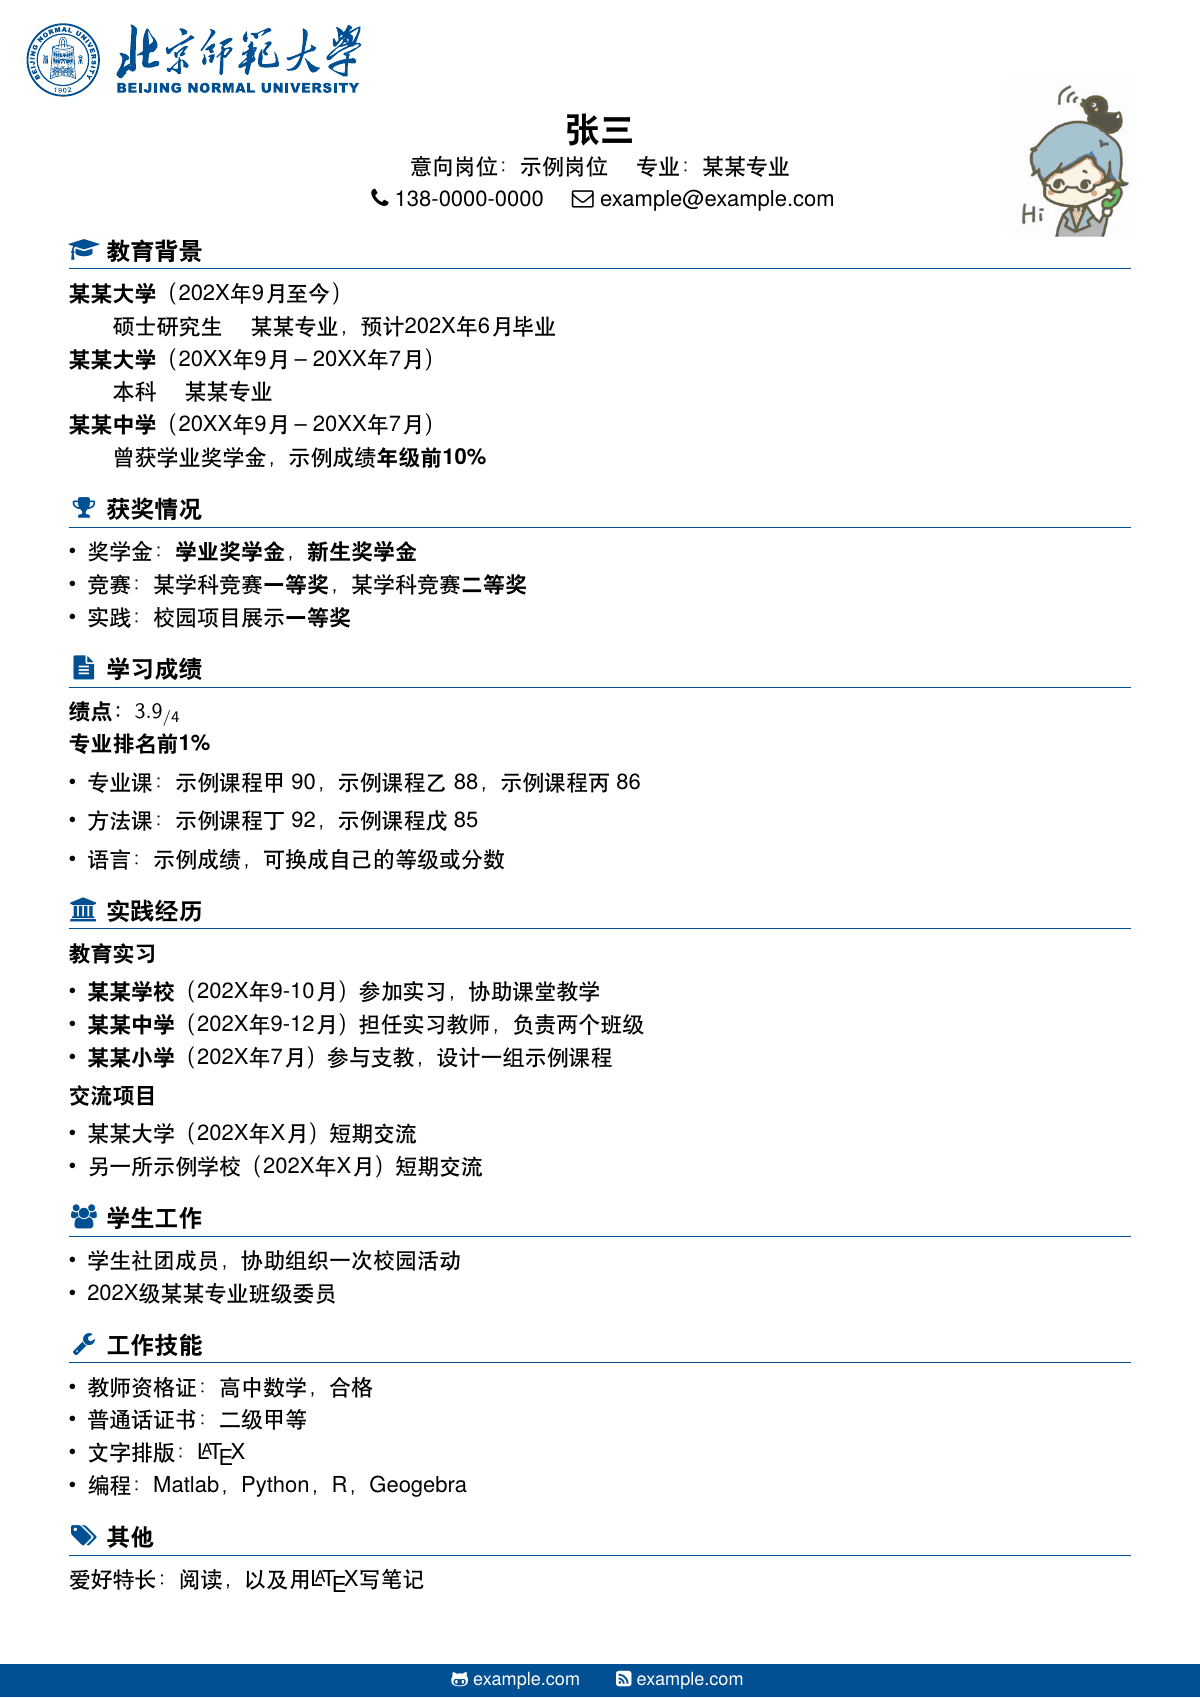
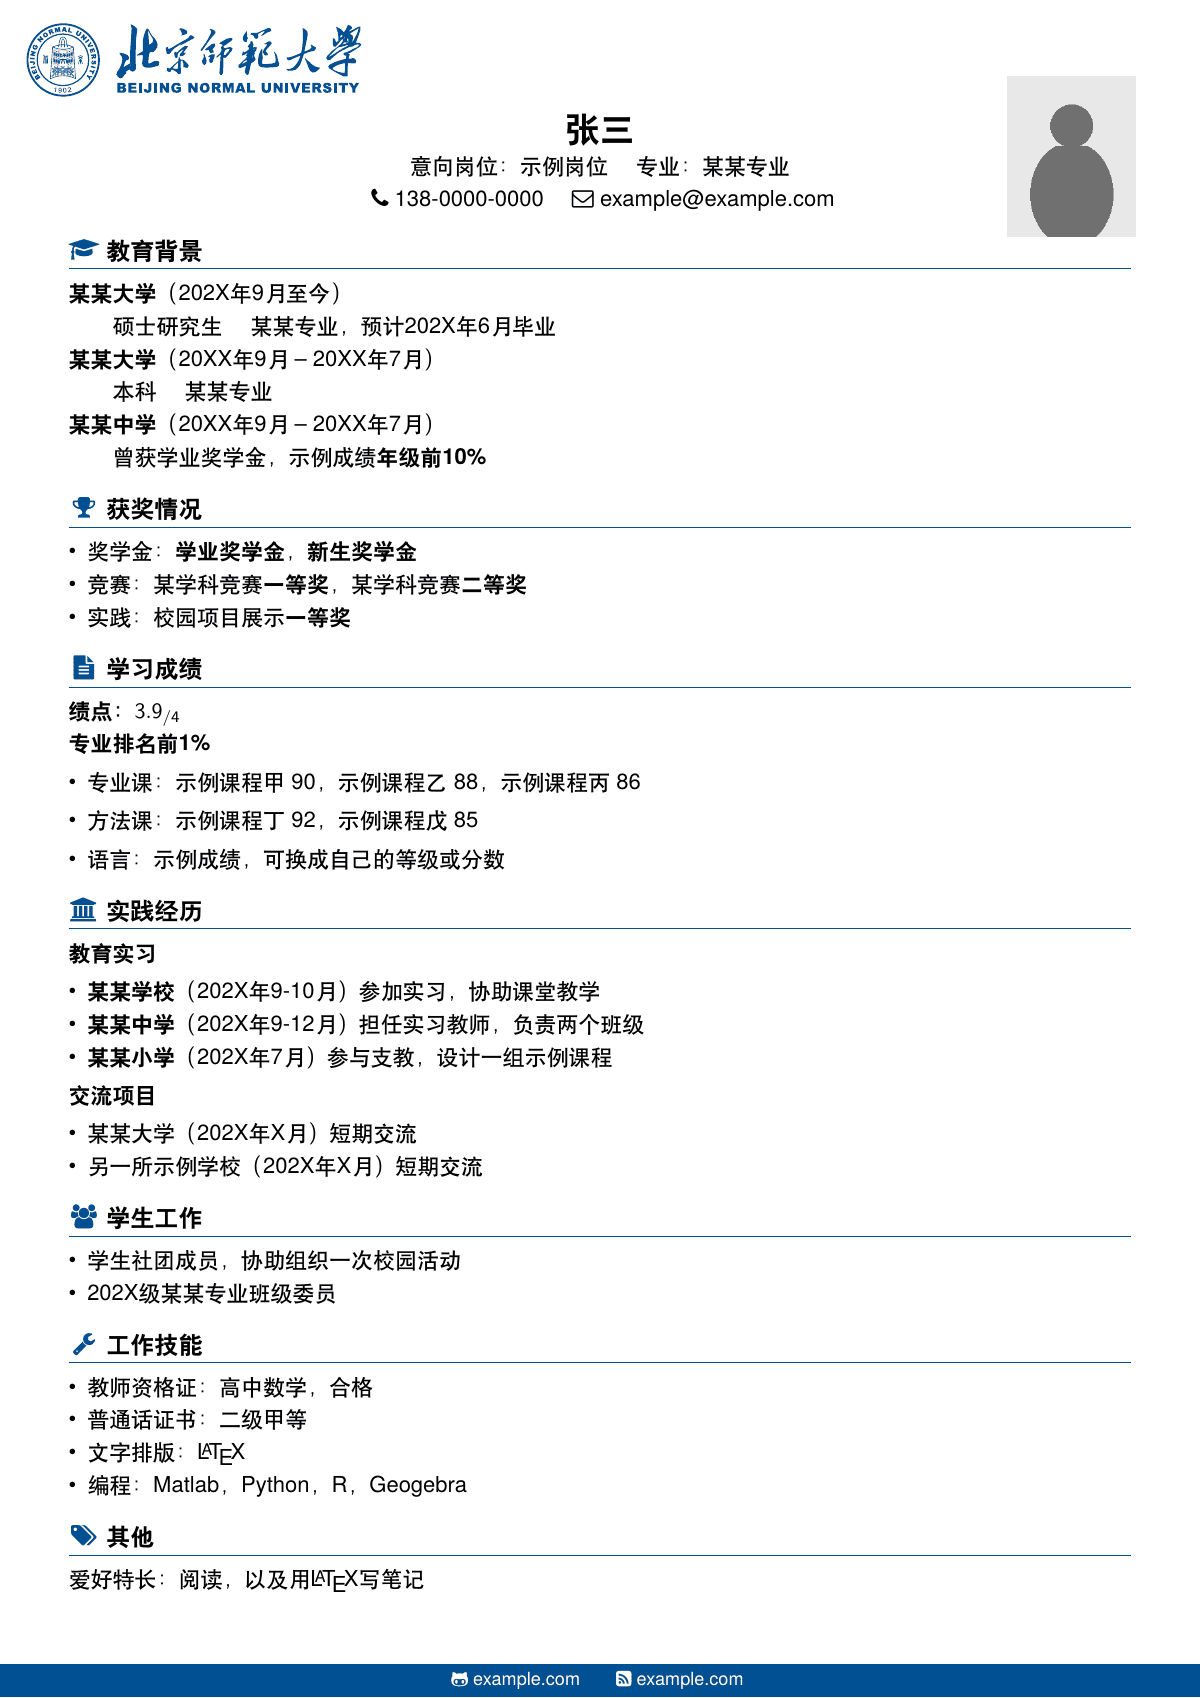
Anonymize the slides sample author and replace the CV portrait
Use 张三 on the slides title page, drop leftover personal names from the sample text, and swap the cartoon avatar for a same-size gray silhouette.

Changed region(s): [[0.8325, 0.0312, 0.9558, 0.1561], [0.0308, 0.0312, 0.0617, 0.0624]]

diff --git a/templates/cv/main.tex b/templates/cv/main.tex
@@ -1,5 +1,5 @@
 %% !TEX program = xelatex*2
-%% 最新的版本请参见Github @LeyuDame
+%% 上游仓库：
 %% https://github.com/LeyuDame
 %% 本模板在overleaf上的链接（可能版本会旧一些） 
 %% https://www.overleaf.com/latex/templates/bnucv/stjnkyqdcqzm
@@ -91,7 +91,7 @@
 \pagenumbering{gobble} % suppress displaying page number
 %%%% 利用tikz来定位照片，部分招聘单位可能需要“以貌取人”
 \begin{tikzpicture}[remember picture, overlay]
-	\node[anchor = north east] at ($(current page.north east)+(-1cm,-1.2cm)$) {\includegraphics[height=2.8cm]{img/avatar.jpg}};
+	\node[anchor = north east] at ($(current page.north east)+(-1cm,-1.2cm)$) {\includegraphics[height=2.8cm]{img/avatar.png}};
 \end{tikzpicture}%
 %%%% 利用tikz来定位学校Logo，这里只在第一页显示，如果需要每页都有，可以考虑在页眉、页脚或者background中加入，不过简历也就一两页，无所谓了
 \begin{tikzpicture}[remember picture, overlay]

diff --git a/templates/slides/main.tex b/templates/slides/main.tex
@@ -1,4 +1,3 @@
-% Author: LeyuDame
 % Date: 2026-02-01
 % Github: https://github.com/YZDame/BNUslides2026
 % Overleaf: 使用的是2024的旧版, 不再更新

diff --git a/templates/slides/README.md b/templates/slides/README.md
@@ -1,6 +1,6 @@
 # 幻灯片
 
-师大蓝 Beamer，文档类 `bnuslides`。取自 [BNUslides2026](https://github.com/YZDame/BNUslides2026)（含 `refs.bib`）。作者 LeyuDame。侧栏目录参考 [zbowang/BeamerTheme](https://github.com/zbowang/BeamerTheme)。
+师大蓝 Beamer，文档类 `bnuslides`。取自 [BNUslides2026](https://github.com/YZDame/BNUslides2026)（含 `refs.bib`）。侧栏目录参考 [zbowang/BeamerTheme](https://github.com/zbowang/BeamerTheme)。
 
 <img src="../../assets/previews/slides-title.png" alt="标题页" width="480">
 <img src="../../assets/previews/slides-content.png" alt="内容页" width="480">

diff --git a/templates/paper/README.md b/templates/paper/README.md
@@ -1,6 +1,6 @@
 # 课程论文
 
-`ctexart` 课程论文。作者 LeyuDame，基于 Shawn Wang 的北京大学课程论文模板。样式文件头保留 CC BY 4.0 声明；本合集以 LPPL-1.3c 分发。
+`ctexart` 课程论文。基于 Shawn Wang 的北京大学课程论文模板。样式文件头保留 CC BY 4.0 声明；本合集以 LPPL-1.3c 分发。
 
 <img src="../../assets/previews/paper-cover.png" alt="封面" width="480">
 <img src="../../assets/previews/paper-body.png" alt="正文" width="480">

diff --git a/templates/cv/README.md b/templates/cv/README.md
@@ -1,6 +1,6 @@
 # 简历
 
-XeLaTeX 简历。LeyuDame 改进，基于 [myCV](https://github.com/Htallone/myCV)。
+XeLaTeX 简历。基于 [myCV](https://github.com/Htallone/myCV) 修改。
 
 <img src="../../assets/previews/cv.png" alt="简历" width="480">
 
